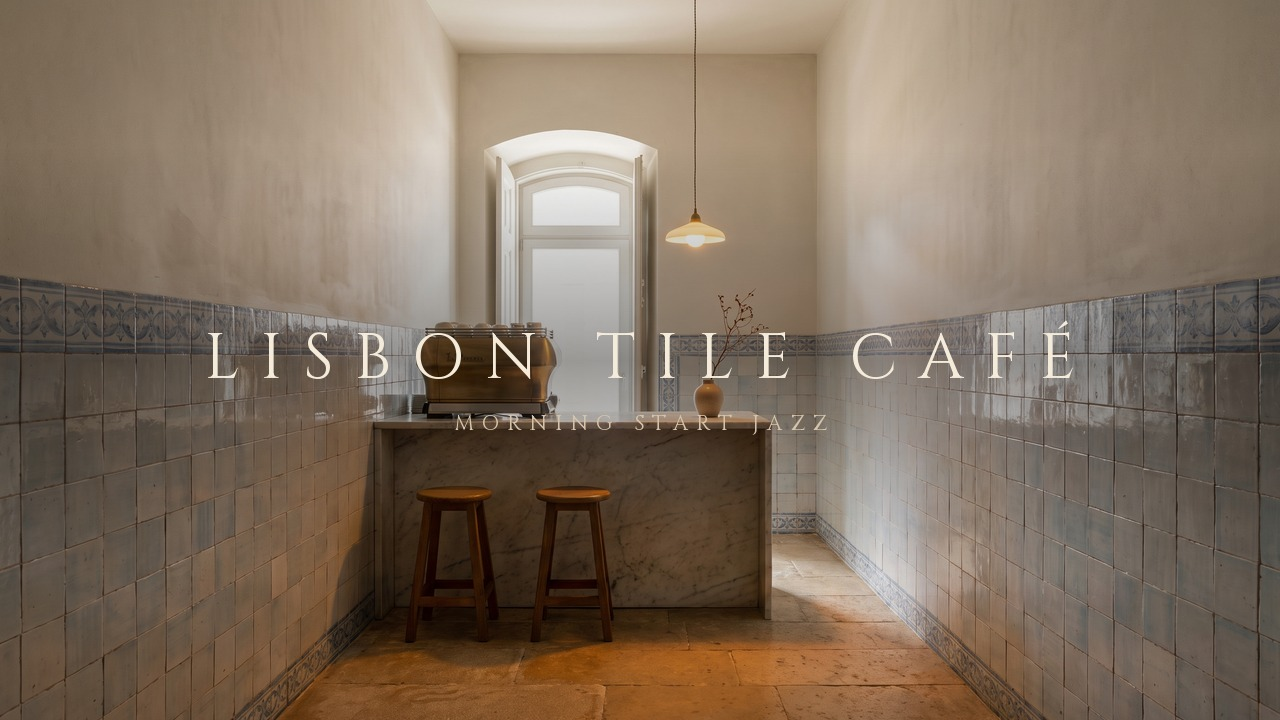
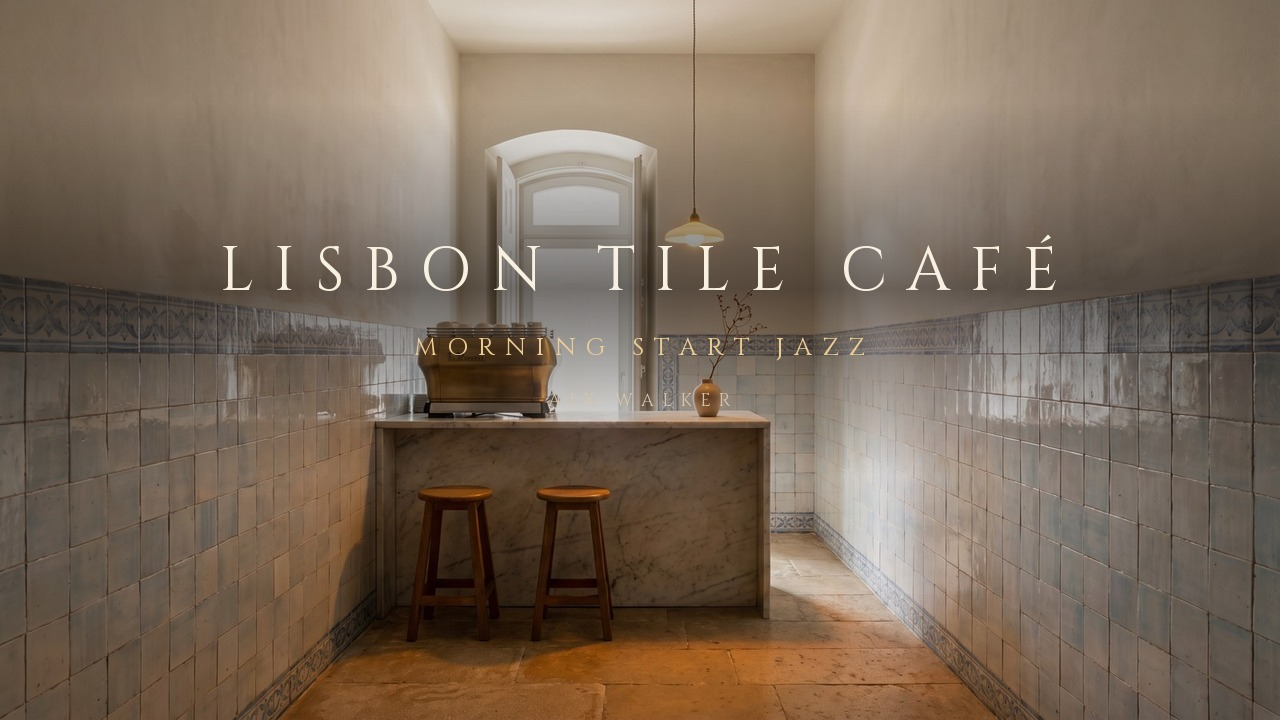
Genre-Test Tokyo Quiet Café (Tokyo-Café-Jazz-Stil)
Claude-Session: https://claude.ai/code/session_01JUVfyC1DRseoPo7tEMo2QM

diff --git a/concepts/genre_test_tokyo.py b/concepts/genre_test_tokyo.py
@@ -1,0 +1,146 @@
+"""Test-Material für das neue Genre «Tokyo Quiet Café» (Rolf 17.10.2026): Testbilder, Test-Thumbnails, Test-Musik, Video-Probe.
+
+Aufruf (Cloud-Umgebung mit API-Keys):  python concepts/genre_test_quiet_rooms.py
+Ergebnis: Drive → AIX WALKER Mixe / GENRE-TEST Tokyo Quiet Café (bilder, thumbs, musik, video)
+"""
+import subprocess
+import sys
+from pathlib import Path
+
+sys.path.insert(0, str(Path(__file__).resolve().parent.parent))
+
+from PIL import Image, ImageDraw  # noqa: E402
+
+from pipeline import config, drive, images, lyria  # noqa: E402
+
+OUT = Path("build/genre-test-tokyo")
+STYLE = (" Photorealistic architectural interior photograph, 16:9, shot at eye level, calm composition with long perspective "
+         "into the depth, completely empty of people, warm low amber light pools and recessed light strips on dark matte surfaces, "
+         "soft shadows, wabi-sabi Japanese minimalism, quiet luxury, premium editorial quality, no text, no logos, no watermark, "
+         "no signage.")
+
+ROOMS = {
+    "tokyo-quiet-cafe": ("TOKYO QUIET CAFÉ",
+        "A silent Tokyo specialty café interior: raw concrete and warm plaster walls, a low long wooden counter with a "
+        "small espresso machine behind glass, two low round stools, one old coat hanging on a black hook, a single dried "
+        "branch in a clay vase on a stone ledge, large floor-to-ceiling window with soft blue dusk light from the street, "
+        "polished concrete floor reflecting warm spot lights"),
+    "kyoto-tea-room": ("KYOTO TEA ROOM",
+        "A silent Kyoto tea house corridor: dark wood slat walls, paper shoji screens glowing warmly, a raked gravel zen "
+        "garden with a moss stone seen through a wide opening, a long low bench, tall pampas grass in a ceramic vase, "
+        "recessed warm light strips along the floor, tatami edge, very calm symmetrical perspective"),
+    "shibuya-morning-cafe": ("SHIBUYA MORNING CAFÉ",
+        "A quiet Tokyo café at 7 in the morning: tall slatted wooden screens throwing dappled sunlight stripes across a "
+        "pale concrete floor, a minimalist wooden counter with a pour-over kettle, dark vertical wood panels, a few "
+        "low stools, soft haze, one small plant, warm golden light entering from the right, empty and peaceful"),
+}
+VARIANT = ("night-coding-cafe", "NIGHT CODING CAFÉ",
+           "A silent Tokyo café at night for late work: curved plaster arches, dark walnut counter with warm amber pendant "
+           "lights, a long low shelf with a single book, a large window showing blurred neon lights of Tokyo far away in "
+           "deep blue, polished concrete floor, a dry branch in a vase, very calm moody warm light")
+
+SUBS = {"tokyo-quiet-cafe": "JAZZ FOR WORK & CODING", "kyoto-tea-room": "DEEP FOCUS TEA HOUSE JAZZ",
+        "shibuya-morning-cafe": "MORNING START JAZZ", "night-coding-cafe": "CODING AFTER DARK"}
+
+TRACKS = {
+    "tokyo-quiet-cafe": ("Quiet Counter", "warm upright bass, felt piano, soft muted brushed texture barely audible, vintage Tokyo jazz kissa warmth"),
+    "kyoto-tea-room": ("Raked Gravel", "felt piano and warm upright bass, sparse single notes, long gaps of silence, soft room air"),
+    "shibuya-morning-cafe": ("Seven Oclock", "gentle upright bass walking very softly, felt piano, hint of soft vibraphone, light morning warmth"),
+    "night-coding-cafe": ("Late Window", "slow felt piano, deep warm upright bass, dark mellow late-night jazz cafe feel, very steady"),
+}
+
+
+def thumb(art: Image.Image, title: str, out: Path, sub: str, w: int = 1280, h: int = 720) -> Path:
+    img = art.convert("RGB").resize((w, h), Image.LANCZOS)
+    over = Image.new("RGBA", (w, h), (0, 0, 0, 0))
+    d = ImageDraw.Draw(over)
+    cy = h * 0.40
+    for y in range(h):
+        a = int(150 * max(0.0, 1 - abs(y - cy) / (h * 0.26)))
+        d.line([(0, y), (w, y)], fill=(14, 9, 5, a))
+    img = Image.alpha_composite(img.convert("RGBA"), over).convert("RGB")
+    d = ImageDraw.Draw(img)
+    F = config.ASSETS / "fonts" / "Cinzel.ttf"
+    size = int(h * 0.085)
+    f = images._font(F, size, "Regular")
+    tr = int(h * 0.028)
+    while images._tracked_width(d, title, f, tr) > w * 0.86:
+        size -= 2
+        f = images._font(F, size, "Regular")
+        tr = int(size * 0.33)
+    tw = images._tracked_width(d, title, f, tr)
+    y0 = int(h * 0.32)
+    images._draw_tracked(d, ((w - tw) // 2, y0), title, f, (248, 240, 225), tr)
+    sf = images._font(F, int(h * 0.036), "Regular")
+    st = int(h * 0.014)
+    sw = images._tracked_width(d, sub, sf, st)
+    images._draw_tracked(d, ((w - sw) // 2, y0 + int(h * 0.14)), sub, sf, (236, 205, 150), st)
+    mf = images._font(F, int(h * 0.026), "Regular")
+    m, ms = "AIX WALKER", int(h * 0.012)
+    mw = images._tracked_width(d, m, mf, ms)
+    images._draw_tracked(d, ((w - mw) // 2, y0 + int(h * 0.22)), m, mf, (214, 196, 170), ms)
+    out.parent.mkdir(parents=True, exist_ok=True)
+    img.save(out, "JPEG", quality=92)
+    return out
+
+
+def main() -> int:
+    for sub in ("bilder", "thumbs", "musik", "video"):
+        (OUT / sub).mkdir(parents=True, exist_ok=True)
+    arts = {}
+    for key, (title, scene) in ROOMS.items():
+        art = images.generate_art(scene, "16:9", pro=True, style=STYLE, image_size="2K")
+        art.save(OUT / "bilder" / f"{key}.png")
+        arts[key] = (title, art)
+    vkey, vtitle, vscene = VARIANT
+    vart = images.generate_art(vscene, "16:9", pro=True, style=STYLE, image_size="2K")
+    vart.save(OUT / "bilder" / f"{vkey}.png")
+    arts[vkey] = (vtitle, vart)
+
+    for key, (title, art) in arts.items():
+        thumb(art, title, OUT / "thumbs" / f"thumb-{key}.jpg", SUBS.get(key, "JAZZ FOR WORK & CODING"))
+
+    mp3s = []
+    for key, (name, instr) in TRACKS.items():
+        prompt = lyria.build_prompt("quiet Tokyo cafe jazz for focused work and deep concentration", 60,
+                                    "calm, warm, unobtrusive, spacious, intimate",
+                                    f"{instr}; no drums, no cymbals, no vocals, no melodic climax, very steady and gentle, "
+                                    "long stretches of near silence between phrases",
+                                    minutes=2)
+        try:
+            p = lyria.generate_track(prompt, OUT / "musik" / f"{name}.mp3")
+            mp3s.append((key, p))
+        except Exception as e:  # noqa: BLE001
+            print("Musik fehlgeschlagen:", name, e)
+
+    # Video-Probe: 20 s langsamer Zoom (Ken Burns) auf das Provence-Bild mit dem ersten Track
+    try:
+        key, mp3 = mp3s[0]
+        img = OUT / "bilder" / f"{key}.png"
+        vid = OUT / "video" / "video-probe-tokyo.mp4"
+        subprocess.run(["ffmpeg", "-y", "-loop", "1", "-i", str(img), "-i", str(mp3), "-t", "20",
+                        "-vf", "scale=3840:-2,zoompan=z='1+0.0006*on':x='iw/2-(iw/zoom/2)':y='ih/2-(ih/zoom/2)':d=1:s=1920x1080:fps=25,format=yuv420p",
+                        "-c:v", "libx264", "-preset", "veryfast", "-crf", "20", "-c:a", "aac", "-b:a", "192k", "-shortest", str(vid)],
+                       check=True, capture_output=True)
+    except Exception as e:  # noqa: BLE001
+        print("Video-Probe fehlgeschlagen:", e)
+
+    # Kopien ins Repo (kleine JPEGs), damit die Präsentation sie von dort holen kann
+    import shutil
+    repo_dir = Path("concepts/genre-test-tokyo")
+    for sub in ("bilder", "thumbs", "musik", "video"):
+        (repo_dir / sub).mkdir(parents=True, exist_ok=True)
+    for f in (OUT / "bilder").glob("*.png"):
+        Image.open(f).convert("RGB").resize((1600, 900)).save(repo_dir / "bilder" / (f.stem + ".jpg"), quality=88)
+    for sub in ("thumbs", "musik", "video"):
+        for f in (OUT / sub).glob("*"):
+            shutil.copy(f, repo_dir / sub / f.name)
+    files_by_sub = {sub: sorted((OUT / sub).glob("*")) for sub in ("bilder", "thumbs", "musik", "video")}
+    links = drive.upload_mix_package("GENRE-TEST Tokyo Quiet Café", [], files_by_sub)
+    for k, v in links.items():
+        print(k, v)
+    return 0
+
+
+if __name__ == "__main__":
+    raise SystemExit(main())
